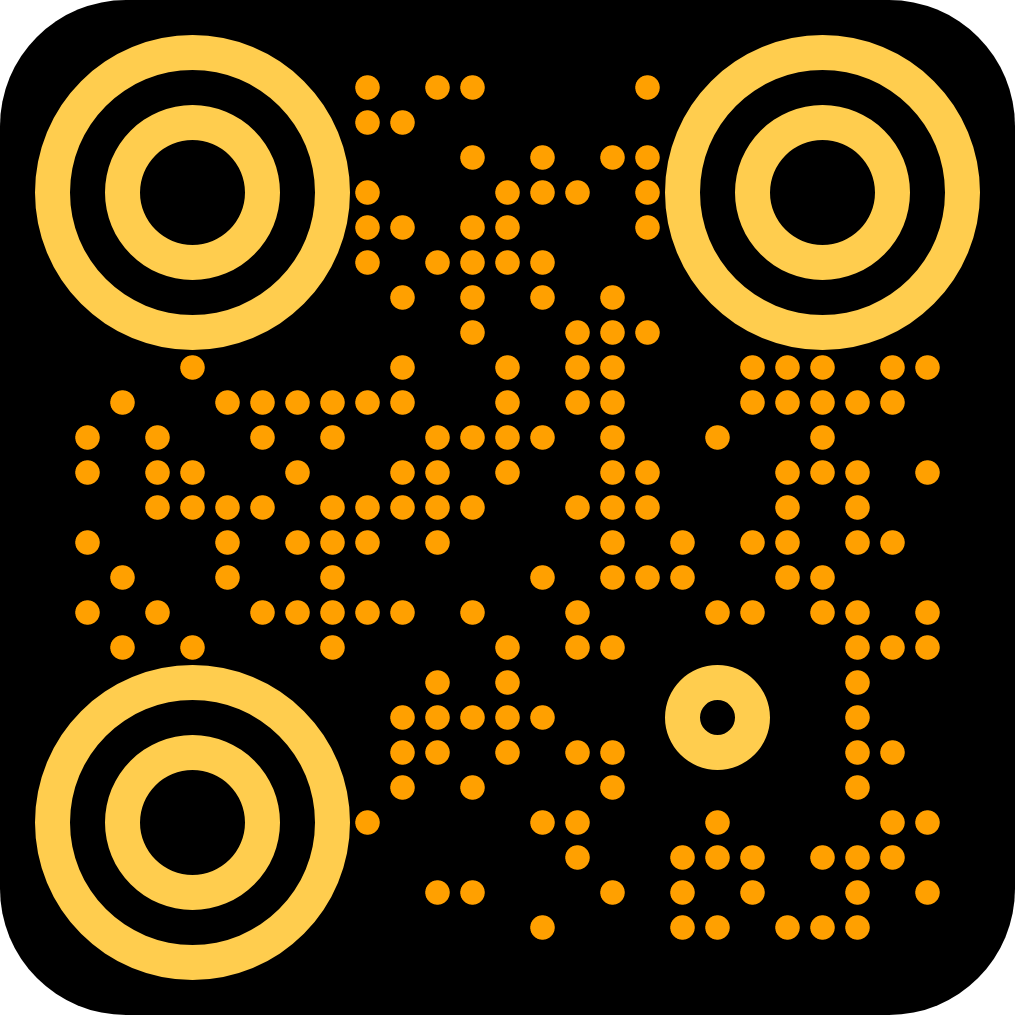
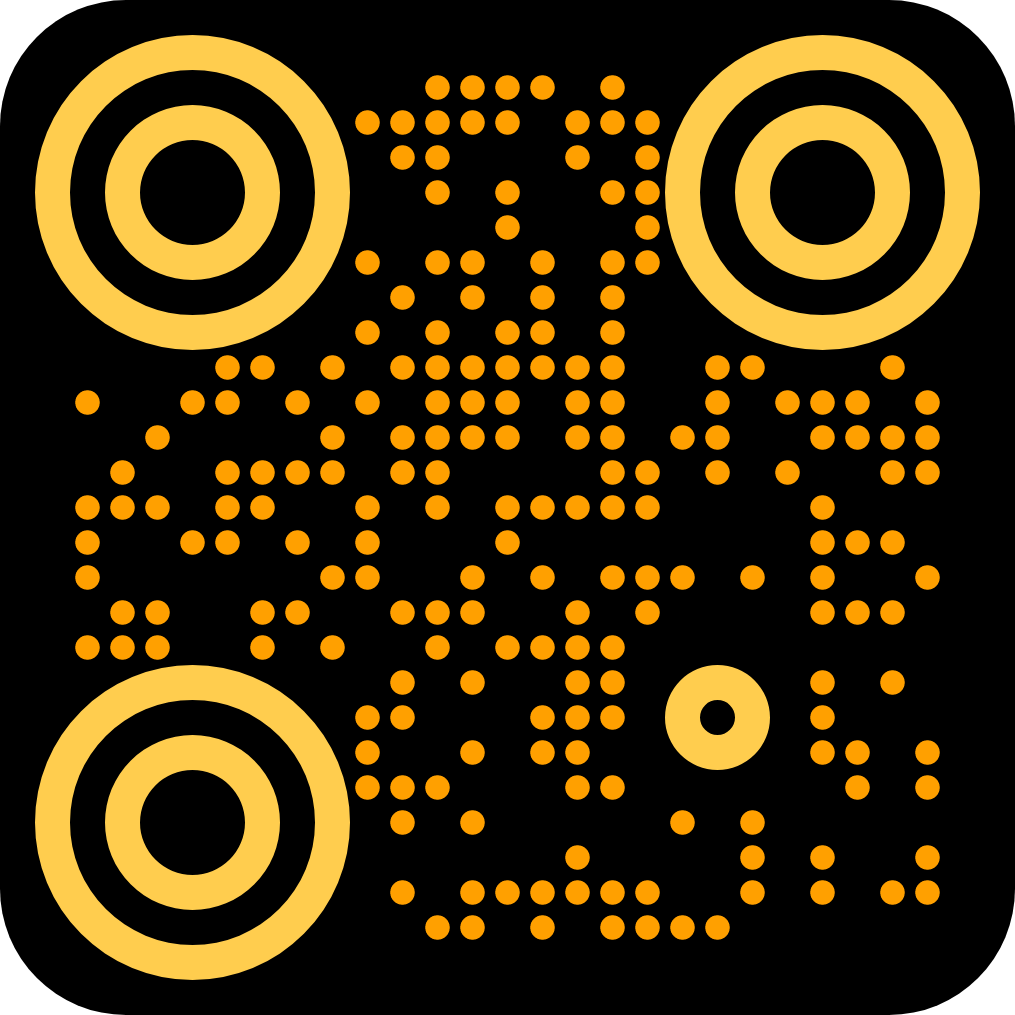
update data

diff --git a/src/components/contact/index.js b/src/components/contact/index.js
@@ -2,7 +2,7 @@ import React, { useEffect } from 'react';
 import './style.scss'
 import AOS from "aos"
 import Header from '../Header';
-import { address, email, phone, facebook, github, qr } from './data.js'
+import { address, email, phone, phone2, facebook, github, qr } from './data.js'
 
 const Contact = () => {
     document.title = "Nguyen Phu Qui's contact"
@@ -45,7 +45,7 @@ const Contact = () => {
                                     <i className='bx bxs-map' />
                                 </div>
                                 <div className='name'>
-                                    address
+                                    current address
                                 </div>
                                 <div className='content'>
                                     {address}
@@ -70,7 +70,13 @@ const Contact = () => {
                                     phone
                                 </div>
                                 <div className='content'>
-                                    <a href={'tel:0822226618' + phone}>{phone}</a>
+                                    <a href={'tel:' + phone.replaceAll('.', '')}>{phone}</a>
+                                    {phone2 && (
+                                        <>
+                                            <span> – </span>
+                                            <a href={'tel:' + phone2.replaceAll('.', '')}>{phone2}</a>
+                                        </>
+                                    )}
                                 </div>
                             </div>
                             <div className='detail'>

diff --git a/src/components/contact/data.js b/src/components/contact/data.js
@@ -2,7 +2,8 @@ import qrImg from '../../assets/qr.png'
 
 const address = 'Tan Hung Ward, District 7, HCM'
 const email = 'qnpdev@gmail.com'
-const phone = '0822226618'
+const phone = '08.2222.6618'
+const phone2 = '03.2929.3630'
 const facebook = {
     link: '100029121395944',
     show: 'fb.com/NPQuii'
@@ -13,6 +14,6 @@ const github = {
 }
 const qr = {
     show: qrImg,
-    link: 'https://drive.google.com/file/d/1sgUvULNSdyKxwAe5uhFDSmPKUsN0TbKG/view?usp=sharing',
+    link: 'https://drive.google.com/file/d/14sl3pdu9FosheQoWeFRtCAtlq4_g3I15/view?usp=sharing',
 }
-export { address, email, phone, facebook, github, qr }
+export { address, email, phone, phone2, facebook, github, qr }

diff --git a/src/components/about/data.js b/src/components/about/data.js
@@ -23,7 +23,7 @@ const personal = [
     },
     {
         key: 'Address',
-        value: 'Tan Hung Ward, District 7, HCM',
+        value: 'Binh Thuan Province',
     },
     {
         key: 'Phone',
